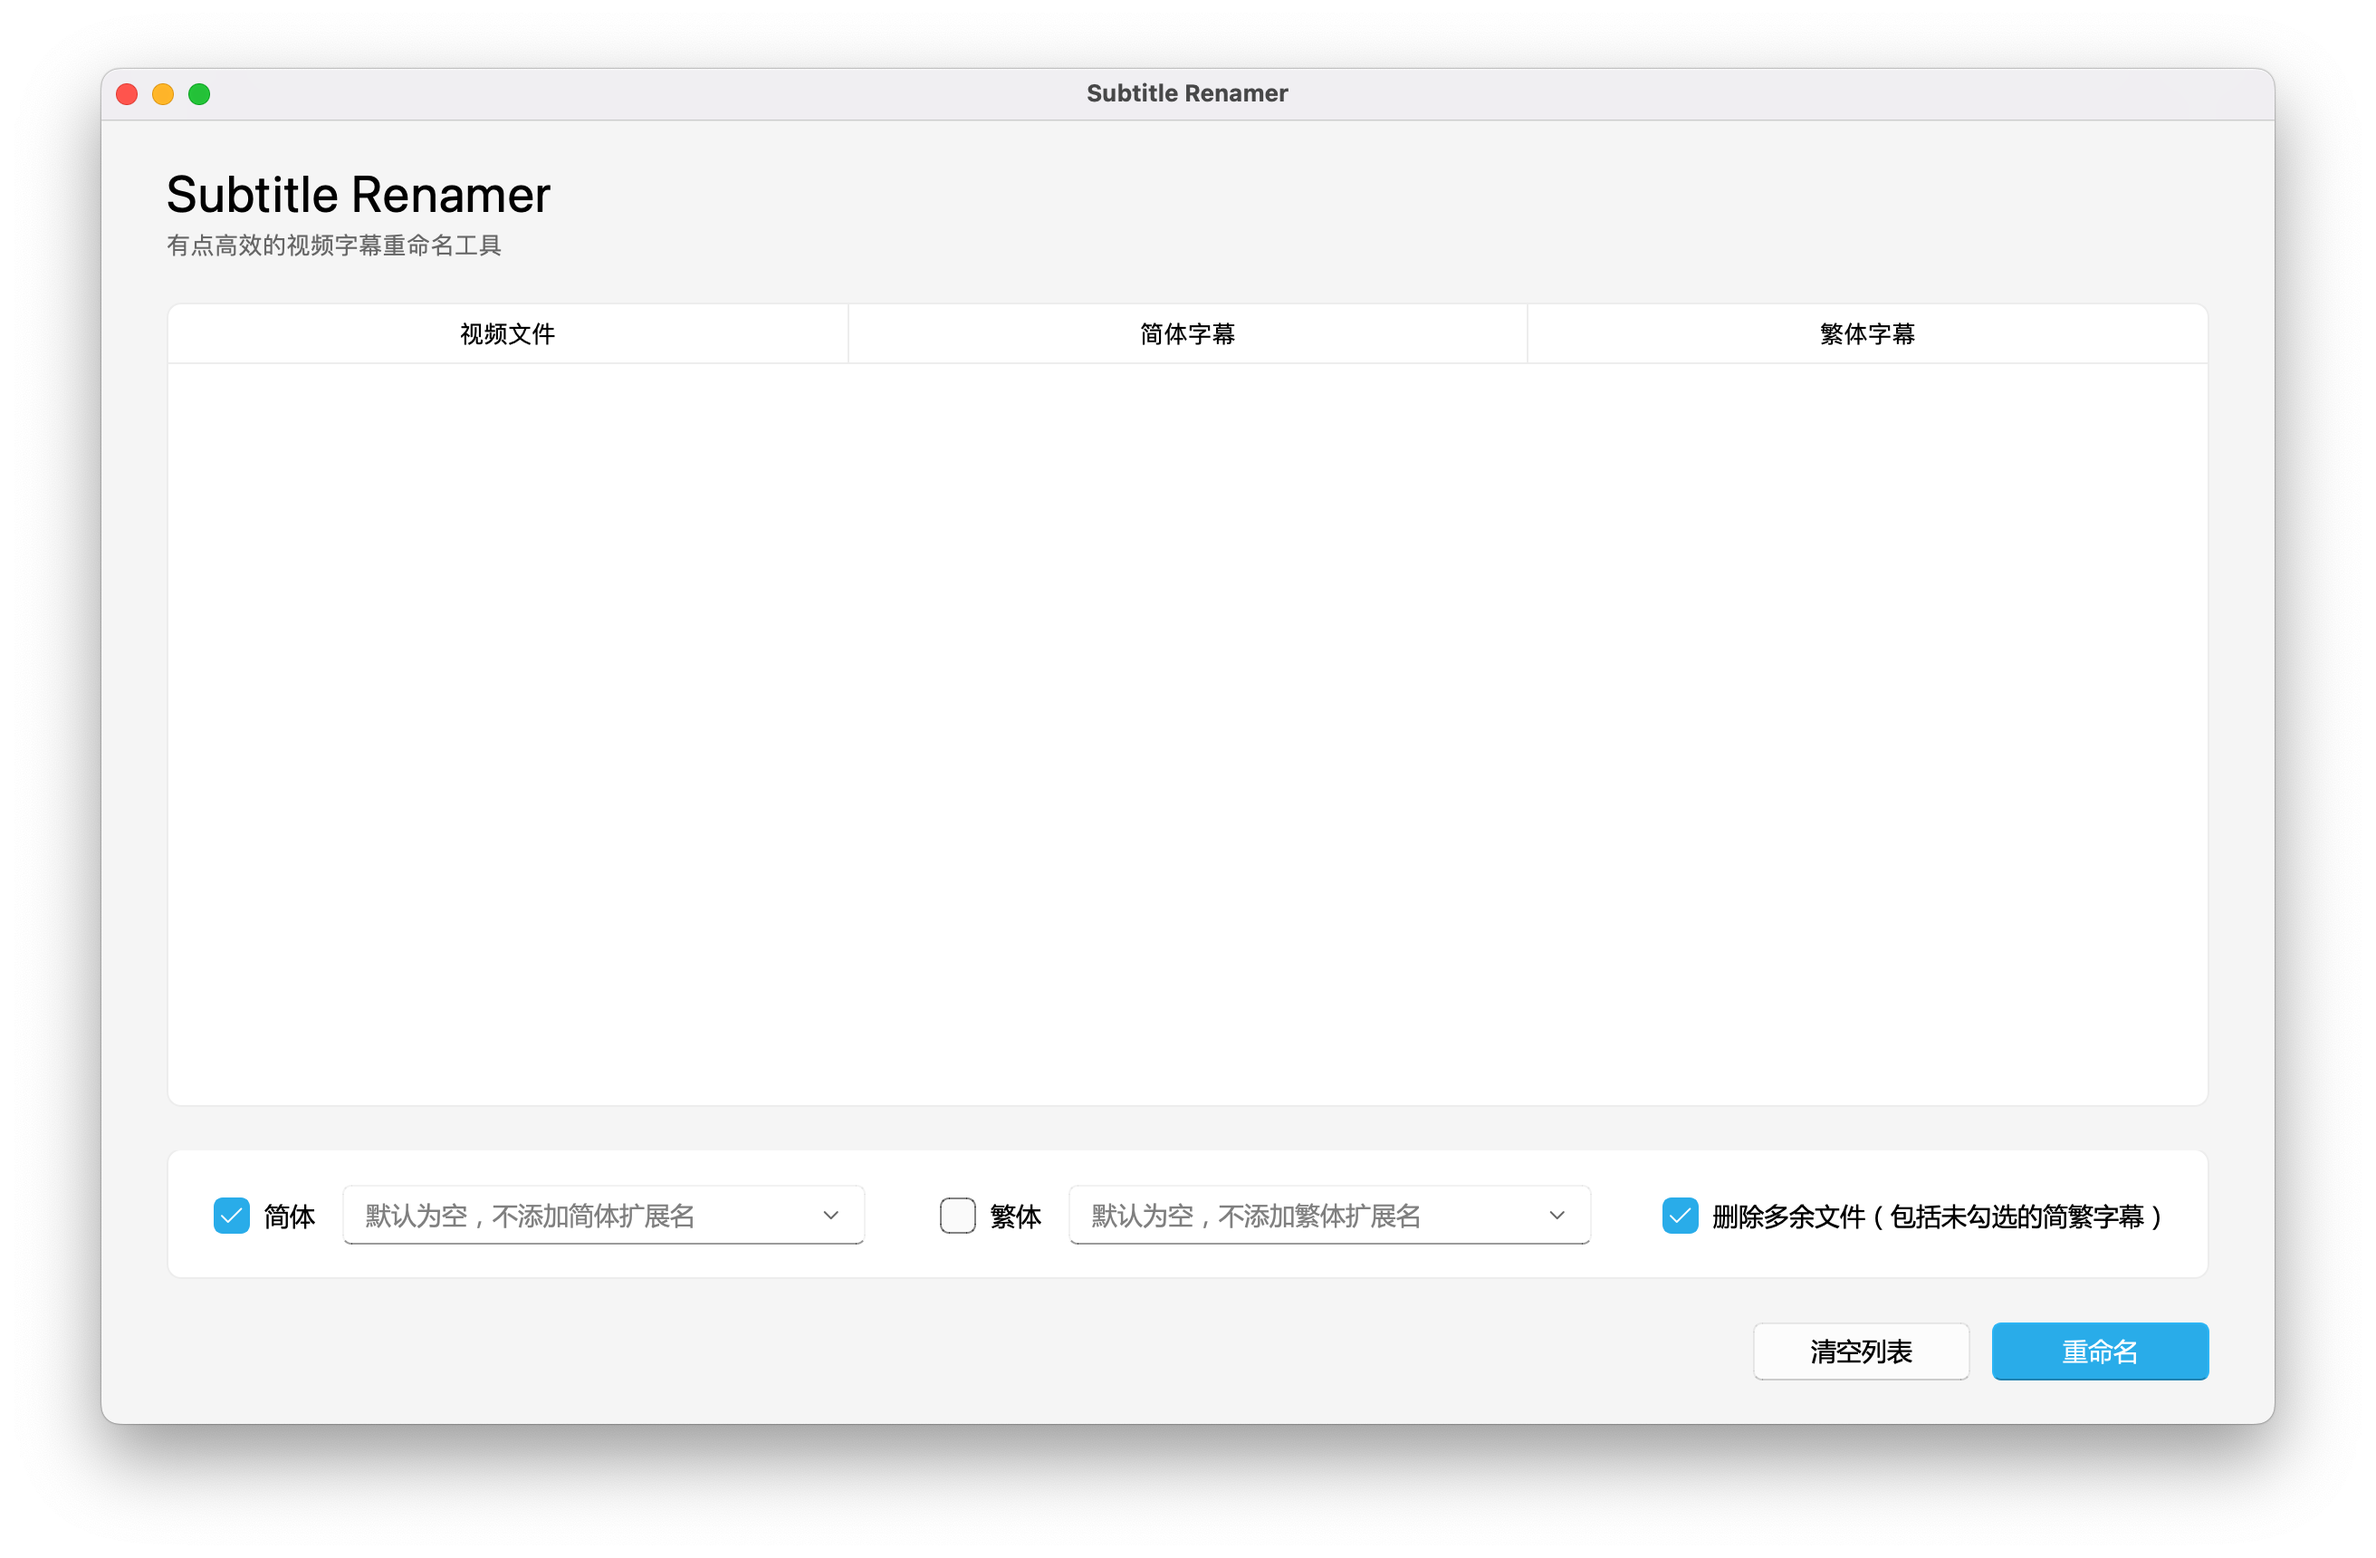
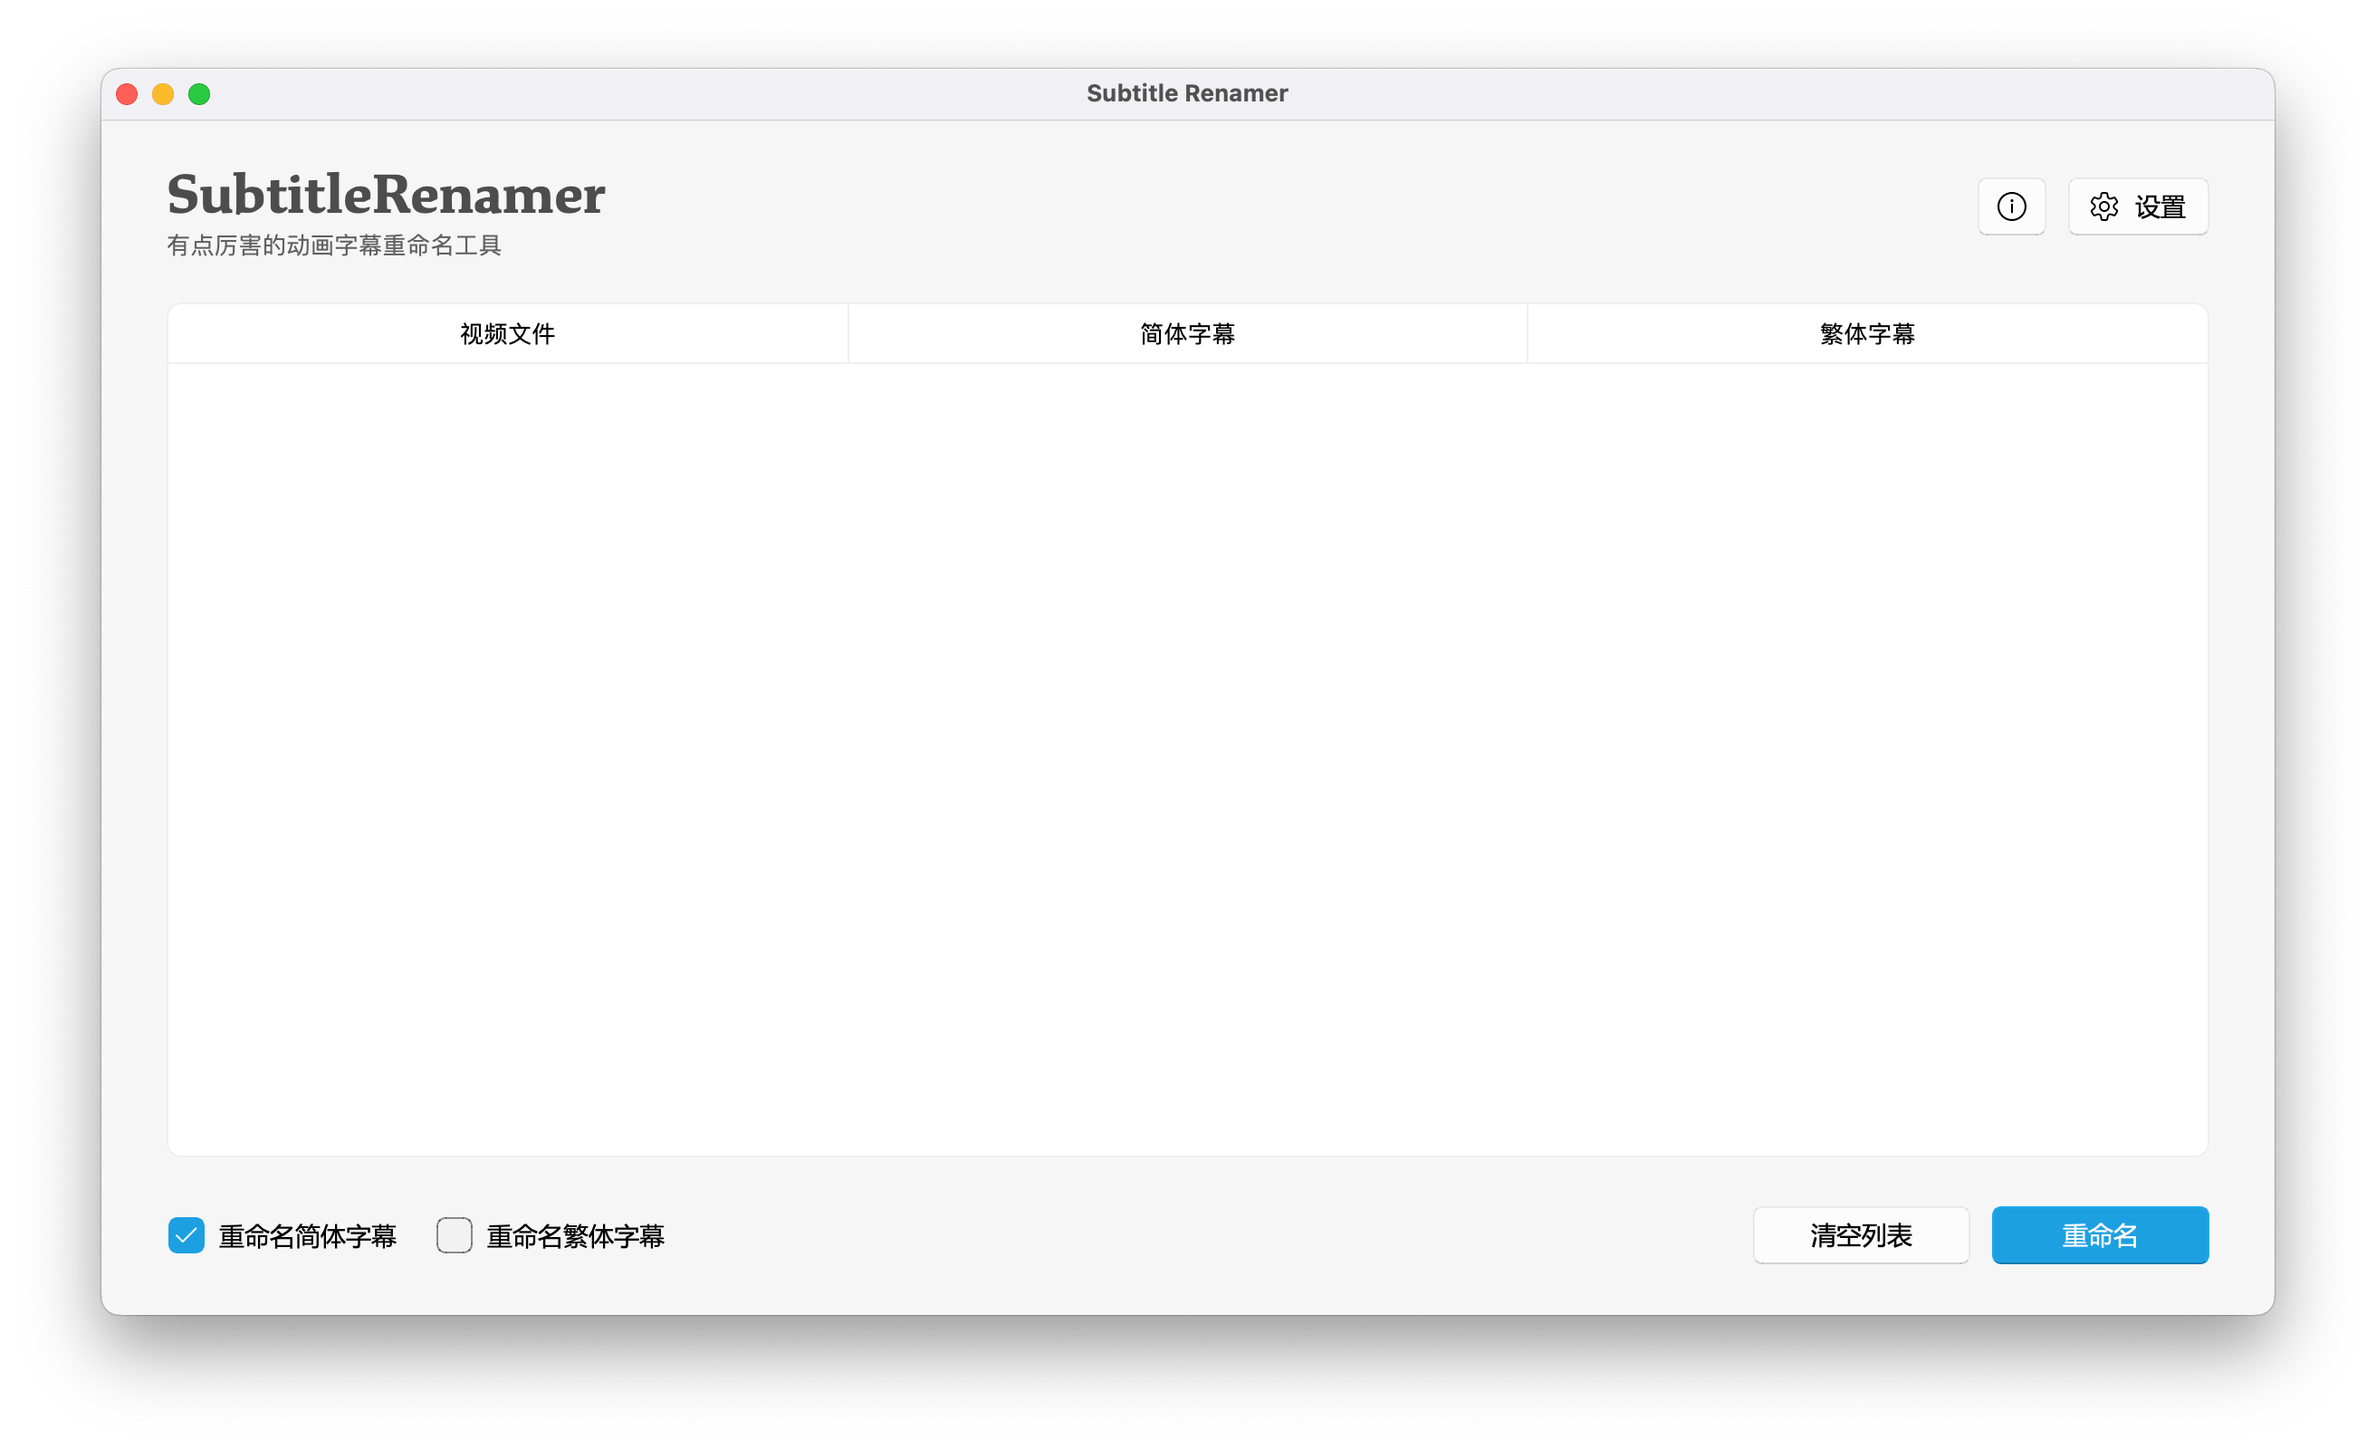
更新README

diff --git a/README.md b/README.md
@@ -1,5 +1,12 @@
 <p align="center">
-    <img src="image/logo.png" width=60%/ alt="">
+    <img src="image/logo.png" width=60%/ alt="SubtitleRenamer">
+    <br>
+    <div align="center">
+        <img src="https://img.shields.io/badge/platform-Windows%20%7C%20macOS%20%7C%20Linux-2BADE9" alt="Platform">
+        <img src="https://img.shields.io/github/stars/nuthx/subtitle-renamer?color=2BADE9" alt="Stars">
+        <img src="https://img.shields.io/github/downloads/nuthx/subtitle-renamer/total?color=2BADE9" alt="Downloads">
+        <img src="https://img.shields.io/github/license/nuthx/subtitle-renamer?color=2BADE9" alt="License">
+    </div>
 </p>
 
 
@@ -9,7 +16,7 @@
 本项目是基于 Python 的视频字幕批量重命名工具，**推荐用于重命名动画字幕**，应该也用于重命名电影字幕。
 
 <p align="center">
-    <img src="image/screenshot.png" alt="">
+    <img src="image/screenshot.png" alt="SubtitleRenamer">
 </p>
 
 ## 特色
@@ -17,18 +24,18 @@
 - 多平台支持，开箱即用
 - 优雅的 GUI 界面（使用 [PyQt-Fluent-Widgets](https://github.com/zhiyiYo/PyQt-Fluent-Widgets) 主题组件）
 - 自动识别简繁字幕文件
-- 支持自定义简繁后缀 ( `.sc` or `.tc` )
-- 重命名完成后移动字幕至视频目录
-- 默认删除未命名的字幕（可选不删除）
+- 自定义简繁后缀 ( `.sc` or `.tc` )
+- （可选）重命名完成后移动字幕至视频目录
+- （可选）删除未命名的字幕
+- （可选）转换字幕编码至 UTF-8
 
 ## 使用
 
 1. 拖入待更名的视频与字幕文件，需保持字幕与视频数量相等
-2. 勾选`简体`或`繁体`来重命名指定语言的字幕
-3. （可选）为简体或繁体字幕添加扩展名（默认为空，即不添加）
-4. 若勾选了`删除多余文件`，未命名的字幕将被删除
-5. 点击`重命名`，命名后的视频字幕会移动至视频目录下
-6. 完成！
+2. 使用左下角的`简体`或`繁体`来选择字幕语言
+3. 在设置中配置重命名时的可选项
+4. 点击`重命名`
+5. 完成！
 
 **注意：** 请在`重命名`开始前确保结果准确无误，`重命名`开始后，**操作不可撤销**。
 
